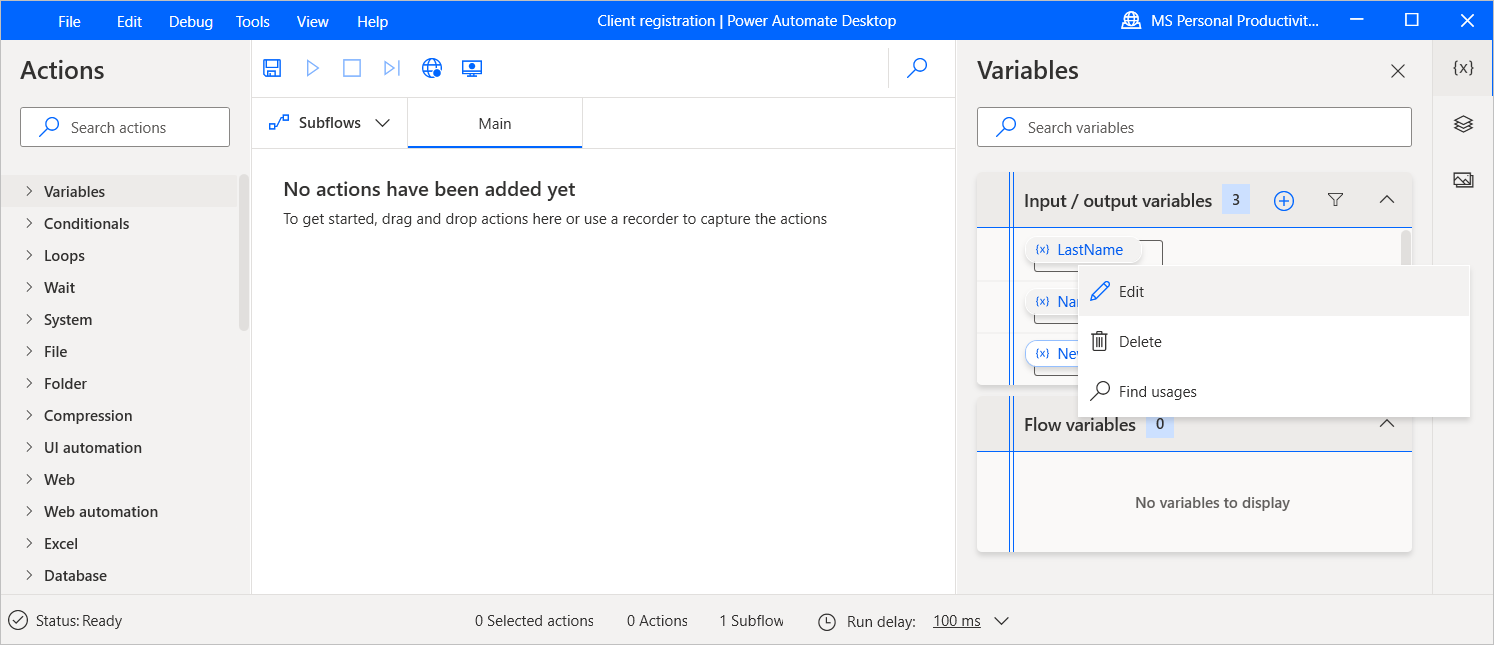
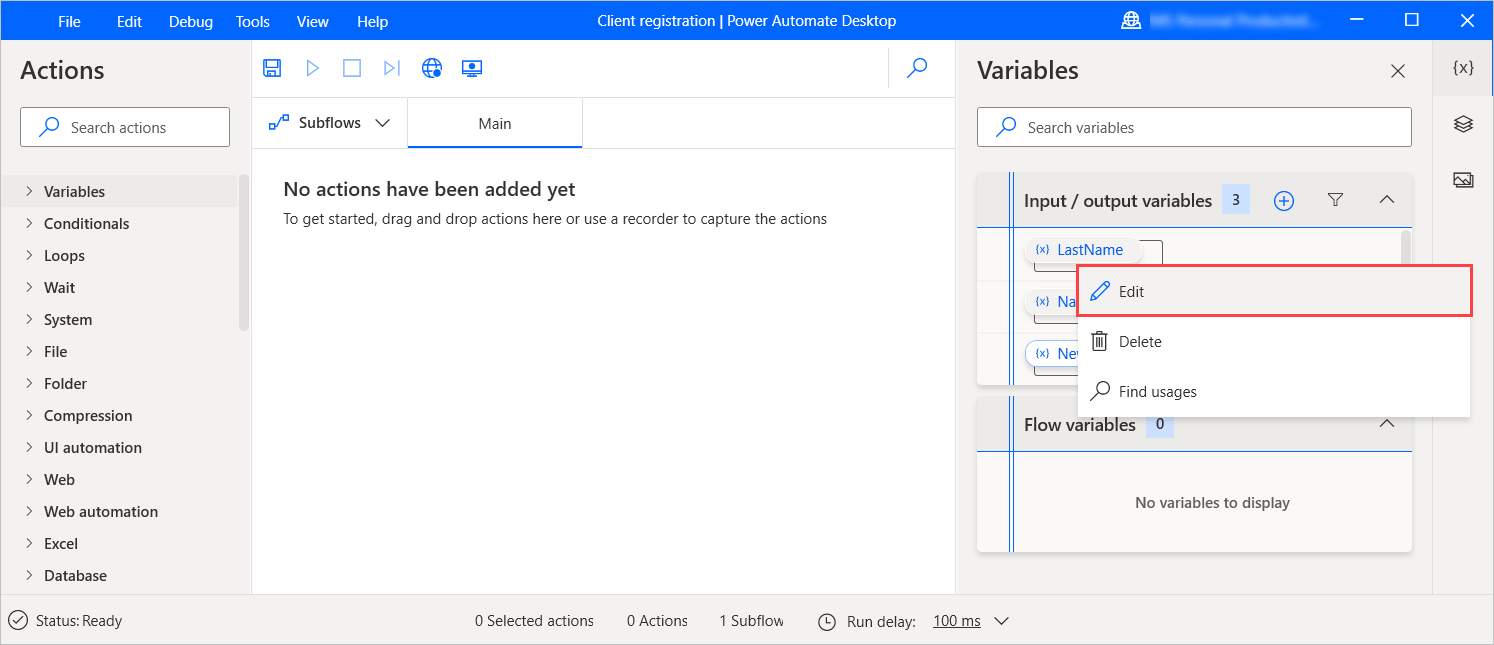
Rewrites in the input-output variables section part4

Changed region(s): [[0.7082, 0.4651, 0.9853, 0.4961], [0.7082, 0.4031, 0.9853, 0.4341], [0.7697, 0.0, 0.8929, 0.062]]

diff --git a/articles/desktop-flows/manage-variables.md b/articles/desktop-flows/manage-variables.md
@@ -74,7 +74,7 @@ To create an input variable:
     - **Data type**: The type of the variable, like number, text, or datetime.
     - **Default value**: The default value when the flow runs from the Power Automate Desktop flow designer or the Power Automate Desktop console.
     - **External name**: The name used outside the flow. The external name is the name that will appear in Power Automate.
-    - **Description**: A description of the variable that will appear in Power Automate and the **Flow inputs** dialog.
+    - **Description**: A description of the variable that will appear in Power Automate and the Flow inputs dialog.
 
     > [!NOTE]
     > The **Variable type**, **Variable name**, **Data type**, and **External name** fields are required to create an input variable.
@@ -113,14 +113,15 @@ All the created input and output variables are displayed in the appropriate sect
 
 Through this pane, you can rename, update, delete, and find the usages of each input/output variable.
 
-To update an input/output variable, right-click on its name in the **Variables** pane and select **Edit**.
+To update an input/output variable:
 
-![The Edit option for input/output variables.](media\renaming-variables\rename-input-variable.png)
+1.  Right-click on its name in the variables pane and select **Edit**.
 
-In the **Edit variable** dialog, update the desired fields and select **Update** to apply the changes.
+    ![The Edit option for input/output variables.](media\renaming-variables\rename-input-variable.png)
 
-![The Edit variable dialog box](media\renaming-variables\edit-variable-dialog.png)
+2. In the **Edit variable** dialog, update the desired fields and select **Update** to apply the changes.
 
+    ![The Edit variable dialog box](media\renaming-variables\edit-variable-dialog.png)
 
 
 [!INCLUDE[footer-include](../includes/footer-banner.md)]
